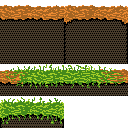
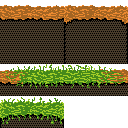
forest

Changed region(s): [[0.0, 0.9688, 0.5, 1.0]]

diff --git a/lib/game/levels/e1m1.js b/lib/game/levels/e1m1.js
@@ -1,6 +1,6 @@
 ig.module( 'game.levels.e1m1' )
-.requires( 'impact.image' )
+.requires( 'impact.image','game.entities.nextlevel' )
 .defines(function(){
-LevelE1m1=/*JSON[*/{"entities":[],"layer":[{"name":"BG","width":1,"height":1,"linkWithCollision":false,"visible":1,"tilesetName":"media/gfx/levels/sky.png","repeat":true,"preRender":true,"distance":"1","tilesize":32,"foreground":false,"data":[[15]]},{"name":"skybox","width":12,"height":14,"linkWithCollision":false,"visible":1,"tilesetName":"media/gfx/levels/sky.png","repeat":true,"preRender":true,"distance":"1.8","tilesize":32,"foreground":false,"data":[[1,1,1,1,1,1,1,1,1,1,1,1],[5,6,5,5,6,6,5,5,5,6,6,6],[0,0,0,0,0,0,0,0,0,0,0,0],[0,0,0,0,0,0,0,0,0,0,0,0],[0,0,0,0,0,0,0,0,0,0,0,0],[9,10,9,10,9,9,10,9,10,9,9,10],[13,13,13,13,13,13,13,13,13,13,13,13],[13,13,13,13,13,13,13,13,13,13,13,13],[13,13,13,13,13,13,13,13,13,13,13,13],[13,13,13,13,13,13,13,13,13,13,13,13],[1,1,1,1,1,1,1,1,1,1,1,1],[1,1,1,1,1,1,1,1,1,1,1,1],[1,1,1,1,1,1,1,1,1,1,1,1],[1,1,1,1,1,1,1,1,1,1,1,1]]},{"name":"forest_far_away","width":45,"height":10,"linkWithCollision":false,"visible":0,"tilesetName":"media/gfx/levels/forest.png","repeat":false,"preRender":true,"distance":"1.4","tilesize":32,"foreground":false,"data":[[0,0,0,0,0,0,0,0,0,0,0,0,0,0,0,0,0,0,0,0,0,0,0,0,0,0,0,0,0,0,0,0,0,0,0,0,0,0,0,0,0,0,0,0,0],[0,0,0,0,0,0,0,0,0,0,0,0,0,0,0,0,0,0,0,0,0,0,0,0,0,0,0,0,0,0,0,0,0,0,0,0,0,0,0,0,0,0,0,0,0],[0,0,0,0,0,0,0,0,0,0,0,0,0,0,0,0,0,0,0,0,0,0,0,11,0,11,0,5,0,0,0,0,0,0,0,0,0,0,0,0,0,0,0,0,0],[0,5,0,0,0,0,0,0,0,0,0,0,0,0,0,0,0,3,0,0,0,3,0,9,0,14,0,15,0,0,0,0,0,0,0,0,0,0,0,0,0,0,0,0,0],[0,9,0,0,5,0,10,0,11,0,0,3,0,0,0,2,0,7,4,0,0,7,0,16,0,9,0,9,0,0,11,0,0,0,0,0,0,0,0,0,0,0,0,0,0],[0,13,0,0,14,0,15,0,14,0,0,7,0,0,0,6,0,7,8,0,0,7,0,14,0,13,0,14,0,0,9,0,10,0,0,0,5,0,0,0,10,0,0,0,0],[0,9,0,0,9,0,16,0,15,0,0,7,0,0,0,6,0,7,8,0,0,7,0,13,0,9,0,13,0,0,15,0,9,0,0,0,15,0,0,0,15,0,0,0,0],[0,13,0,0,13,0,16,0,9,0,0,7,0,0,0,6,0,7,8,0,0,7,0,16,0,16,0,9,0,0,16,0,9,0,0,0,9,0,0,0,9,0,0,0,0],[0,16,0,0,16,0,0,0,0,0,0,7,0,0,0,6,0,7,8,0,0,7,0,16,0,16,0,16,0,0,16,0,16,0,0,0,16,0,0,0,16,0,0,0,0],[0,0,0,0,0,0,0,0,0,0,0,0,0,0,0,0,0,0,0,0,0,0,0,0,0,0,0,0,0,0,0,0,0,0,0,0,16,0,0,0,16,0,0,0,0]]},{"name":"forest_back","width":45,"height":10,"linkWithCollision":false,"visible":0,"tilesetName":"media/gfx/levels/forest.png","repeat":false,"preRender":true,"distance":"1.1","tilesize":32,"foreground":false,"data":[[0,0,0,0,0,0,0,0,0,0,0,0,0,0,0,0,0,0,0,0,0,0,0,0,0,0,0,0,0,0,0,0,0,0,0,0,0,0,0,0,0,0,0,0,0],[0,0,0,0,0,0,0,0,0,0,0,0,0,0,0,0,0,0,0,10,0,5,0,0,0,0,4,0,0,0,0,0,0,0,0,0,0,0,0,0,0,0,0,0,0],[0,0,0,0,0,0,0,0,0,0,0,0,0,0,11,0,0,0,0,9,0,16,0,10,0,3,8,0,0,0,0,0,0,0,0,0,0,0,0,0,0,0,0,0,0],[0,0,11,0,0,0,0,4,0,3,0,0,0,0,14,0,0,0,0,13,0,13,0,14,0,7,8,0,0,0,10,0,11,0,0,0,5,0,0,0,0,0,0,0,0],[0,0,9,0,0,0,0,8,0,7,0,0,0,0,15,0,0,0,0,14,0,16,0,13,0,7,8,0,0,0,15,0,14,0,0,0,9,2,10,0,0,0,0,0,0],[0,0,9,0,0,1,0,8,0,7,0,0,0,0,9,0,0,0,0,15,0,16,0,13,0,7,8,0,0,0,16,0,13,0,0,0,13,6,14,0,0,0,0,0,0],[0,0,13,0,0,8,0,8,0,7,0,0,0,0,13,0,0,0,0,16,0,16,0,0,0,7,8,0,0,0,16,0,16,0,0,0,14,6,15,0,0,0,0,0,0],[0,0,13,0,0,8,0,8,0,7,0,0,0,0,16,0,0,0,0,16,0,16,0,0,0,7,8,0,0,0,16,0,16,0,0,0,15,6,16,0,0,0,0,0,0],[0,0,0,0,0,0,0,0,0,0,0,0,0,0,16,0,0,0,0,0,0,0,0,0,0,7,8,0,0,0,0,0,0,0,0,0,16,6,16,0,0,0,0,0,0],[0,0,0,0,0,0,0,0,0,0,0,0,0,0,16,0,0,0,0,0,0,0,0,0,0,0,8,0,0,0,0,0,0,0,0,0,16,6,16,0,0,0,0,0,0]]},{"name":"MAIN_back","width":45,"height":10,"linkWithCollision":false,"visible":1,"tilesetName":"media/gfx/levels/forest.png","repeat":false,"preRender":true,"distance":"1","tilesize":32,"foreground":false,"data":[[0,0,0,0,0,0,0,0,0,0,0,0,0,0,0,0,0,0,0,0,0,0,0,0,0,0,0,0,0,0,0,0,0,0,0,0,0,0,0,0,0,0,0,0,0],[0,0,0,0,0,0,0,0,0,0,0,0,0,0,0,0,0,0,0,0,0,0,0,0,0,0,0,0,0,0,0,0,0,0,0,0,0,0,0,0,0,0,0,0,0],[0,0,0,0,0,0,0,0,0,0,0,0,0,0,0,0,0,0,0,0,0,0,0,0,0,0,0,0,0,0,0,0,0,0,0,0,0,0,0,0,0,0,0,0,0],[0,0,0,0,0,0,0,0,0,0,0,0,0,0,0,0,0,0,0,0,0,0,0,0,0,0,0,0,0,0,0,0,0,0,0,0,0,0,0,0,0,0,0,0,0],[0,0,0,0,0,0,0,0,0,0,0,0,0,0,0,0,0,0,0,0,0,0,0,0,0,0,0,0,0,0,0,0,0,0,0,0,0,0,0,0,0,0,0,0,0],[0,0,0,0,0,0,17,18,17,0,0,0,0,0,0,0,0,0,0,0,0,0,0,0,0,0,0,0,0,0,0,0,0,0,0,0,0,0,0,0,0,0,0,0,0],[0,0,0,0,0,0,21,21,21,0,0,0,0,0,0,0,0,0,0,0,0,0,0,0,0,0,0,0,0,0,0,0,0,0,0,0,0,0,0,0,0,0,0,0,0],[0,0,0,0,0,0,0,0,0,0,0,0,0,0,0,0,0,0,0,0,0,0,0,0,0,0,0,0,0,0,0,0,0,0,0,0,0,0,0,0,0,0,0,0,0],[0,0,0,0,0,0,0,0,0,0,0,0,0,0,0,0,0,0,0,0,0,0,0,0,0,0,0,0,0,0,0,0,0,0,0,0,0,0,0,0,0,0,0,0,0],[0,0,0,0,0,0,0,0,0,0,0,0,0,0,0,0,0,0,0,0,0,0,0,0,0,0,0,0,0,0,0,0,0,0,0,0,0,0,0,0,0,0,0,0,0]]},{"name":"MAIN","width":45,"height":10,"linkWithCollision":false,"visible":1,"tilesetName":"media/gfx/levels/ground.png","repeat":false,"preRender":true,"distance":"1","tilesize":32,"foreground":false,"data":[[0,0,0,0,0,0,0,0,0,0,0,0,0,0,0,0,0,0,0,0,0,0,0,0,0,0,0,0,0,0,0,0,0,0,0,0,0,0,0,0,0,0,0,0,0],[0,0,0,0,0,0,0,0,0,0,0,0,0,0,0,0,0,0,0,0,0,0,0,0,0,0,0,0,0,0,0,0,0,0,0,0,0,0,0,0,0,0,0,0,0],[0,0,0,0,0,0,0,0,0,0,0,0,0,0,0,0,0,0,0,0,0,0,0,0,0,0,0,0,0,0,0,0,0,0,0,0,0,0,0,0,0,0,0,0,0],[0,0,0,0,0,0,0,0,0,0,0,0,0,0,0,0,0,0,0,0,0,0,0,0,0,0,0,0,0,0,0,0,0,0,0,0,0,0,0,0,0,0,0,0,0],[0,0,0,0,0,0,0,0,0,0,0,0,0,0,0,0,0,0,0,13,10,11,10,10,11,11,10,11,14,0,0,0,0,0,0,0,0,0,0,0,0,0,0,0,0],[0,0,0,0,0,0,0,0,0,13,14,0,0,0,0,13,10,11,10,5,5,5,5,5,5,5,5,5,8,0,0,13,10,11,12,1,4,0,0,0,0,0,0,0,0],[3,2,2,9,10,11,11,10,11,7,8,14,0,13,10,5,5,5,5,5,5,5,5,5,5,5,5,5,8,0,0,7,5,5,5,5,6,1,1,1,1,1,1,1,4],[7,5,5,5,5,5,5,5,5,5,5,8,0,7,5,5,5,5,5,5,5,5,5,5,5,5,5,5,8,0,0,7,5,5,5,5,5,5,5,5,5,5,5,5,8],[7,5,5,5,5,5,5,5,5,5,5,8,0,7,5,5,5,5,5,5,5,5,5,5,5,5,5,5,8,0,0,7,5,5,5,5,5,5,5,5,5,5,5,5,8],[7,5,5,5,5,5,5,5,5,5,5,8,0,7,5,5,5,5,5,5,5,5,5,5,5,5,5,5,8,0,0,7,5,5,5,5,5,5,5,5,5,5,5,5,8]]},{"name":"forest_front","width":65,"height":10,"linkWithCollision":false,"visible":0,"tilesetName":"media/gfx/levels/forest.png","repeat":false,"preRender":true,"distance":"0.7","tilesize":32,"foreground":true,"data":[[0,0,0,0,0,0,0,0,0,0,0,0,0,0,0,0,0,0,0,0,0,0,0,0,0,0,0,0,0,0,0,0,0,0,0,0,0,0,0,0,0,0,0,0,0,0,0,0,0,0,0,0,0,0,0,0,0,0,0,0,0,0,0,0,0],[0,0,0,0,0,0,0,0,0,0,0,0,0,0,0,0,0,0,0,0,0,0,0,0,0,0,0,0,0,0,0,0,0,0,0,0,0,0,0,0,0,0,0,0,0,0,0,0,0,0,0,0,0,0,0,0,0,0,0,0,0,0,0,0,0],[0,0,0,0,0,0,0,0,0,0,0,0,0,0,0,0,0,0,10,0,0,0,0,0,0,0,0,0,0,0,0,11,0,0,0,0,0,0,0,0,0,0,0,0,0,0,0,0,0,0,0,0,0,0,0,0,0,0,0,0,0,0,0,0,0],[0,0,0,0,0,0,0,0,0,0,0,0,0,0,0,0,0,11,9,0,0,0,0,0,0,0,0,0,0,0,0,13,0,0,0,0,0,0,0,0,0,0,0,0,0,0,0,0,0,0,0,0,0,0,0,0,0,0,0,0,0,0,0,0,0],[3,0,0,0,0,10,0,0,0,5,0,0,0,0,0,0,0,13,13,0,0,0,0,0,11,0,0,0,0,0,0,13,0,0,0,0,0,0,0,0,0,0,0,0,0,11,0,0,0,3,0,0,0,0,0,0,0,0,10,0,0,0,0,0,0],[7,0,4,0,0,14,0,0,0,9,0,0,0,0,0,0,0,13,9,0,0,10,0,0,15,0,2,0,0,0,0,13,0,0,0,0,0,0,0,0,0,0,0,0,0,14,0,4,0,7,3,0,0,0,0,0,0,0,14,11,0,0,0,0,0],[7,0,8,0,0,15,0,0,0,14,0,0,0,0,0,0,0,14,15,0,0,13,0,0,9,0,6,0,0,0,0,9,0,0,0,0,0,0,0,0,0,0,0,0,0,13,0,8,0,7,7,0,0,0,0,0,0,0,15,9,0,0,0,0,0],[7,0,8,0,0,9,0,0,0,13,0,0,0,0,0,0,0,16,16,0,0,13,0,0,14,0,6,0,0,0,0,14,0,0,0,0,0,0,0,0,0,0,0,0,0,9,0,8,0,7,7,0,0,0,0,0,0,0,13,15,0,0,0,0,0],[7,0,8,0,0,13,0,0,0,15,0,0,0,0,0,0,0,16,16,0,0,15,0,0,16,0,6,0,0,0,0,16,0,0,0,0,0,0,0,0,0,0,0,0,0,16,0,8,0,7,7,0,0,0,0,0,0,0,16,14,0,0,0,0,0],[7,0,8,0,0,16,0,0,0,9,0,0,0,0,0,0,0,16,16,0,0,16,0,0,16,0,6,0,0,0,0,16,0,0,0,0,0,0,0,0,0,0,0,0,0,16,0,8,0,7,7,0,0,0,0,0,0,0,16,9,0,0,0,0,0]]},{"name":"collision","width":90,"height":16,"linkWithCollision":false,"visible":0,"tilesetName":"","repeat":false,"preRender":false,"distance":1,"tilesize":16,"foreground":true,"data":[[0,0,0,0,0,0,0,0,0,0,0,0,0,0,0,0,0,0,0,0,0,0,0,0,0,0,0,0,0,0,0,0,0,0,0,0,0,0,0,0,0,0,0,0,0,0,0,0,0,0,0,0,0,0,0,0,0,0,0,0,0,0,0,0,0,0,0,0,0,0,0,0,0,0,0,0,0,0,0,0,0,0,0,0,0,0,0,0,0,0],[0,0,0,0,0,0,0,0,0,0,0,0,0,0,0,0,0,0,0,0,0,0,0,0,0,0,0,0,0,0,0,0,0,0,0,0,0,0,0,0,0,0,0,0,0,0,0,0,0,0,0,0,0,0,0,0,0,0,0,0,0,0,0,0,0,0,0,0,0,0,0,0,0,0,0,0,0,0,0,0,0,0,0,0,0,0,0,0,0,0],[0,0,0,0,0,0,0,0,0,0,0,0,0,0,0,0,0,0,0,0,0,0,0,0,0,0,0,0,0,0,0,0,0,0,0,0,0,0,0,0,0,0,0,0,0,0,0,0,0,0,0,0,0,0,0,0,0,0,0,0,0,0,0,0,0,0,0,0,0,0,0,0,0,0,0,0,0,0,0,0,0,0,0,0,0,0,0,0,0,0],[0,0,0,0,0,0,0,0,0,0,0,0,0,0,0,0,0,0,0,0,0,0,0,0,0,0,0,0,0,0,0,0,0,0,0,0,0,0,0,0,0,0,0,0,0,0,0,0,0,0,0,0,0,0,0,0,0,0,0,0,0,0,0,0,0,0,0,0,0,0,0,0,0,0,0,0,0,0,0,0,0,0,0,0,0,0,0,0,0,0],[0,0,0,0,0,0,0,0,0,0,0,0,0,0,0,0,0,0,0,0,0,0,0,0,0,0,0,0,0,0,0,0,0,0,0,0,0,0,0,0,0,0,0,0,0,0,0,0,0,0,0,0,0,0,0,0,0,0,0,0,0,0,0,0,0,0,0,0,0,0,0,0,0,0,0,0,0,0,0,0,0,0,0,0,0,0,0,0,0,0],[0,0,0,0,0,0,0,0,0,0,0,0,0,0,0,0,0,0,0,0,0,0,0,0,0,0,0,0,0,0,0,0,0,0,0,0,0,0,0,0,0,0,0,0,0,0,0,0,0,0,0,0,0,0,0,0,0,0,0,0,0,0,0,0,0,0,0,0,0,0,0,0,0,0,0,0,0,0,0,0,0,0,0,0,0,0,0,0,0,0],[0,0,0,0,0,0,0,0,0,0,0,0,0,0,0,0,0,0,0,0,0,0,0,0,0,0,0,0,0,0,0,0,0,0,0,0,0,0,0,0,0,0,0,0,0,0,0,0,0,0,0,0,0,0,0,0,0,0,0,0,0,0,0,0,0,0,0,0,0,0,0,0,0,0,0,0,0,0,0,0,0,0,0,0,0,0,0,0,0,0],[0,0,0,0,0,0,0,0,0,0,0,0,0,0,0,0,0,0,0,0,0,0,0,0,0,0,0,0,0,0,0,0,0,0,0,0,0,0,0,0,0,0,0,0,0,0,0,0,0,0,0,0,0,0,0,0,0,0,0,0,0,0,0,0,0,0,0,0,0,0,0,0,0,0,0,0,0,0,0,0,0,0,0,0,0,0,0,0,0,0],[0,0,0,0,0,0,0,0,0,0,0,0,0,0,0,0,0,0,0,0,0,0,0,0,0,0,0,0,0,0,0,0,0,0,0,0,0,0,0,0,0,0,0,0,0,0,0,0,0,0,0,0,0,0,0,0,0,0,0,0,0,0,0,0,0,0,0,0,0,0,0,0,0,0,0,0,0,0,0,0,0,0,0,0,0,0,0,0,0,0],[0,0,0,0,0,0,0,0,0,0,0,0,0,0,0,0,0,0,0,0,0,0,0,0,0,0,0,0,0,0,0,0,0,0,0,0,0,0,1,1,1,1,1,1,1,1,1,1,1,1,1,1,1,1,1,1,1,1,0,0,0,0,0,0,0,0,0,0,0,0,0,0,0,0,0,0,0,0,0,0,0,0,0,0,0,0,0,0,0,0],[0,0,0,0,0,0,0,0,0,0,0,0,0,0,0,0,0,0,0,0,0,0,0,0,0,0,0,0,0,0,0,0,0,0,0,0,0,0,1,0,0,0,0,0,0,0,0,0,0,0,0,0,0,0,0,0,0,1,0,0,0,0,0,0,0,0,0,0,0,0,0,0,0,0,0,0,0,0,0,0,0,0,0,0,0,0,0,0,0,0],[0,0,0,0,0,0,0,0,0,0,0,0,0,0,0,0,0,0,1,1,1,1,0,0,0,0,0,0,0,0,1,1,1,1,1,1,1,1,1,0,0,0,0,0,0,0,0,0,0,0,0,0,0,0,0,0,0,1,0,0,0,0,1,1,1,1,1,1,1,1,1,1,1,1,0,0,0,0,0,0,0,0,0,0,0,0,0,0,0,0],[0,0,0,0,0,0,0,0,0,0,0,0,0,0,0,0,0,0,1,1,1,1,0,0,0,0,0,0,0,0,1,0,0,0,0,0,0,0,0,0,0,0,0,0,0,0,0,0,0,0,0,0,0,0,0,0,0,1,0,0,0,0,1,0,0,0,0,0,0,0,0,0,0,1,0,0,0,0,0,0,0,0,0,0,0,0,0,0,0,0],[1,1,1,1,1,1,1,1,1,1,1,1,1,1,1,1,1,1,1,0,0,1,1,1,0,0,1,1,1,1,1,0,0,0,0,0,0,0,0,0,0,0,0,0,0,0,0,0,0,0,0,0,0,0,0,0,0,1,0,0,0,0,1,0,0,0,0,0,0,0,0,0,0,1,1,1,1,1,1,1,1,1,1,1,1,1,1,1,1,1],[1,0,0,0,0,0,0,0,0,0,0,0,0,0,0,0,0,0,0,0,0,0,0,1,0,0,1,0,0,0,0,0,0,0,0,0,0,0,0,0,0,0,0,0,0,0,0,0,0,0,0,0,0,0,0,0,0,1,0,0,0,0,1,0,0,0,0,0,0,0,0,0,0,0,0,0,0,0,0,0,0,0,0,0,0,0,0,0,0,1],[1,0,0,0,0,0,0,0,0,0,0,0,0,0,0,0,0,0,0,0,0,0,0,1,0,0,1,0,0,0,0,0,0,0,0,0,0,0,0,0,0,0,0,0,0,0,0,0,0,0,0,0,0,0,0,0,0,1,0,0,0,0,1,0,0,0,0,0,0,0,0,0,0,0,0,0,0,0,0,0,0,0,0,0,0,0,0,0,0,1]]}]}/*]JSON*/;
-LevelE1m1Resources=[new ig.Image('media/gfx/levels/sky.png'), new ig.Image('media/gfx/levels/sky.png'), new ig.Image('media/gfx/levels/forest.png'), new ig.Image('media/gfx/levels/forest.png'), new ig.Image('media/gfx/levels/forest.png'), new ig.Image('media/gfx/levels/ground.png'), new ig.Image('media/gfx/levels/forest.png')];
+LevelE1m1=/*JSON[*/{"entities":[{"type":"EntityNextlevel","x":1347,"y":166}],"layer":[{"name":"BG","width":1,"height":1,"linkWithCollision":false,"visible":1,"tilesetName":"media/gfx/levels/sky.png","repeat":true,"preRender":true,"distance":"1","tilesize":32,"foreground":false,"data":[[15]]},{"name":"skybox","width":12,"height":14,"linkWithCollision":false,"visible":1,"tilesetName":"media/gfx/levels/sky.png","repeat":true,"preRender":true,"distance":"1.8","tilesize":32,"foreground":false,"data":[[1,1,1,1,1,1,1,1,1,1,1,1],[5,6,5,5,6,6,5,5,5,6,6,6],[0,0,0,0,0,0,0,0,0,0,0,0],[0,0,0,0,0,0,0,0,0,0,0,0],[0,0,0,0,0,0,0,0,0,0,0,0],[9,10,9,10,9,9,10,9,10,9,9,10],[13,13,13,13,13,13,13,13,13,13,13,13],[13,13,13,13,13,13,13,13,13,13,13,13],[13,13,13,13,13,13,13,13,13,13,13,13],[13,13,13,13,13,13,13,13,13,13,13,13],[1,1,1,1,1,1,1,1,1,1,1,1],[1,1,1,1,1,1,1,1,1,1,1,1],[1,1,1,1,1,1,1,1,1,1,1,1],[1,1,1,1,1,1,1,1,1,1,1,1]]},{"name":"forest_far_away","width":45,"height":10,"linkWithCollision":false,"visible":0,"tilesetName":"media/gfx/levels/forest.png","repeat":false,"preRender":true,"distance":"1.4","tilesize":32,"foreground":false,"data":[[0,0,0,0,0,0,0,0,0,0,0,0,0,0,0,0,0,0,0,0,0,0,0,0,0,0,0,0,0,0,0,0,0,0,0,0,0,0,0,0,0,0,0,0,0],[0,0,0,0,0,0,0,0,0,0,0,0,0,0,0,0,0,0,0,0,0,0,0,0,0,0,0,0,0,0,0,0,0,0,0,0,0,0,0,0,0,0,0,0,0],[0,0,0,0,0,0,0,0,0,0,0,0,0,0,0,0,0,0,0,0,0,0,0,11,0,11,0,5,0,0,0,0,0,0,0,0,0,0,0,0,0,0,0,0,0],[0,5,0,0,0,0,0,0,0,0,0,0,0,0,0,0,0,3,0,0,0,3,0,9,0,14,0,15,0,0,0,0,0,0,0,0,0,0,0,0,0,0,0,0,0],[0,9,0,0,5,0,10,0,11,0,0,3,0,0,0,2,0,7,4,0,0,7,0,16,0,9,0,9,0,0,11,0,0,0,0,0,0,0,0,0,0,0,0,0,0],[0,13,0,0,14,0,15,0,14,0,0,7,0,0,0,6,0,7,8,0,0,7,0,14,0,13,0,14,0,0,9,0,10,0,0,0,5,0,0,0,10,0,0,0,0],[0,9,0,0,9,0,16,0,15,0,0,7,0,0,0,6,0,7,8,0,0,7,0,13,0,9,0,13,0,0,15,0,9,0,0,0,15,0,0,0,15,0,0,0,0],[0,13,0,0,13,0,16,0,9,0,0,7,0,0,0,6,0,7,8,0,0,7,0,16,0,16,0,9,0,0,16,0,9,0,0,0,9,0,0,0,9,0,0,0,0],[0,16,0,0,16,0,0,0,0,0,0,7,0,0,0,6,0,7,8,0,0,7,0,16,0,16,0,16,0,0,16,0,16,0,0,0,16,0,0,0,16,0,0,0,0],[0,0,0,0,0,0,0,0,0,0,0,0,0,0,0,0,0,0,0,0,0,0,0,0,0,0,0,0,0,0,0,0,0,0,0,0,16,0,0,0,16,0,0,0,0]]},{"name":"forest_back","width":45,"height":10,"linkWithCollision":false,"visible":0,"tilesetName":"media/gfx/levels/forest.png","repeat":false,"preRender":true,"distance":"1.1","tilesize":32,"foreground":false,"data":[[0,0,0,0,0,0,0,0,0,0,0,0,0,0,0,0,0,0,0,0,0,0,0,0,0,0,0,0,0,0,0,0,0,0,0,0,0,0,0,0,0,0,0,0,0],[0,0,0,0,0,0,0,0,0,0,0,0,0,0,0,0,0,0,0,10,0,5,0,0,0,0,4,0,0,0,0,0,0,0,0,0,0,0,0,0,0,0,0,0,0],[0,0,0,0,0,0,0,0,0,0,0,0,0,0,11,0,0,0,0,9,0,16,0,10,0,3,8,0,0,0,0,0,0,0,0,0,0,0,0,0,0,0,0,0,0],[0,0,11,0,0,0,0,4,0,3,0,0,0,0,14,0,0,0,0,13,0,13,0,14,0,7,8,0,0,0,10,0,11,0,0,0,5,0,0,0,0,0,0,0,0],[0,0,9,0,0,0,0,8,0,7,0,0,0,0,15,0,0,0,0,14,0,16,0,13,0,7,8,0,0,0,15,0,14,0,0,0,9,2,10,0,0,0,0,0,0],[0,0,9,0,0,1,0,8,0,7,0,0,0,0,9,0,0,0,0,15,0,16,0,13,0,7,8,0,0,0,16,0,13,0,0,0,13,6,14,0,0,0,0,0,0],[0,0,13,0,0,8,0,8,0,7,0,0,0,0,13,0,0,0,0,16,0,16,0,0,0,7,8,0,0,0,16,0,16,0,0,0,14,6,15,0,0,0,0,0,0],[0,0,13,0,0,8,0,8,0,7,0,0,0,0,16,0,0,0,0,16,0,16,0,0,0,7,8,0,0,0,16,0,16,0,0,0,15,6,16,0,0,0,0,0,0],[0,0,0,0,0,0,0,0,0,0,0,0,0,0,16,0,0,0,0,0,0,0,0,0,0,7,8,0,0,0,0,0,0,0,0,0,16,6,16,0,0,0,0,0,0],[0,0,0,0,0,0,0,0,0,0,0,0,0,0,16,0,0,0,0,0,0,0,0,0,0,0,8,0,0,0,0,0,0,0,0,0,16,6,16,0,0,0,0,0,0]]},{"name":"MAIN_back","width":45,"height":10,"linkWithCollision":false,"visible":1,"tilesetName":"media/gfx/levels/forest.png","repeat":false,"preRender":true,"distance":"1","tilesize":32,"foreground":false,"data":[[0,0,0,0,0,0,0,0,0,0,0,0,0,0,0,0,0,0,0,0,0,0,0,0,0,0,0,0,0,0,0,0,0,0,0,0,0,0,0,0,0,0,0,0,0],[0,0,0,0,0,0,0,0,0,0,0,0,0,0,0,0,0,0,0,0,0,0,0,0,0,0,0,0,0,0,0,0,0,0,0,0,0,0,0,0,0,0,0,0,0],[0,0,0,0,0,0,0,0,0,0,0,0,0,0,0,0,0,0,0,0,0,0,0,0,0,0,0,0,0,0,0,0,0,0,0,0,0,0,0,0,0,0,0,0,0],[0,0,0,0,0,0,0,0,0,0,0,0,0,0,0,0,0,0,0,0,17,19,18,19,20,0,17,20,0,0,0,0,0,0,0,0,0,0,0,0,0,0,0,0,0],[0,0,0,0,0,0,0,0,0,17,20,0,0,0,0,0,17,18,19,0,21,22,23,22,24,0,21,24,0,0,0,0,0,0,0,0,0,0,0,0,0,0,0,0,0],[0,0,0,0,0,0,17,18,19,21,24,20,0,0,0,0,21,22,23,0,0,0,0,0,0,0,0,0,0,0,0,0,0,0,0,0,0,0,0,0,0,0,0,0,0],[0,0,0,0,0,0,21,22,22,0,0,24,0,0,0,0,0,0,0,0,0,0,0,0,0,0,0,0,0,0,0,0,0,0,0,0,0,0,0,0,0,0,0,0,0],[0,0,0,0,0,0,0,0,0,0,0,0,0,0,0,0,0,0,0,0,0,0,0,0,0,0,0,0,0,0,0,0,0,0,0,0,0,0,0,0,0,0,0,0,0],[0,0,0,0,0,0,0,0,0,0,0,0,0,0,0,0,0,0,0,0,0,0,0,0,0,0,0,0,0,0,0,0,0,0,0,0,0,0,0,0,0,0,0,0,0],[0,0,0,0,0,0,0,0,0,0,0,0,0,0,0,0,0,0,0,0,0,0,0,0,0,0,0,0,0,0,0,0,0,0,0,0,0,0,0,0,0,0,0,0,0]]},{"name":"MAIN","width":45,"height":10,"linkWithCollision":false,"visible":1,"tilesetName":"media/gfx/levels/ground.png","repeat":false,"preRender":true,"distance":"1","tilesize":32,"foreground":false,"data":[[0,0,0,0,0,0,0,0,0,0,0,0,0,0,0,0,0,0,0,0,0,0,0,0,0,0,0,0,0,0,0,0,0,0,0,0,0,0,0,0,0,0,0,0,0],[0,0,0,0,0,0,0,0,0,0,0,0,0,0,0,0,0,0,0,0,0,0,0,0,0,0,0,0,0,0,0,0,0,0,0,0,0,0,0,0,0,0,0,0,0],[0,0,0,0,0,0,0,0,0,0,0,0,0,0,0,0,0,0,0,0,0,0,0,0,0,0,0,0,0,0,0,0,0,0,0,0,0,0,0,0,0,0,0,0,0],[0,0,0,0,0,0,0,0,0,0,0,0,0,0,0,0,0,0,0,0,0,0,0,0,0,0,0,0,0,0,0,0,0,0,0,0,0,0,0,0,0,0,0,0,0],[0,0,0,0,0,0,0,0,0,0,0,0,0,0,0,0,0,0,0,13,10,11,10,10,11,11,10,11,14,0,0,0,0,0,0,0,0,0,0,0,0,0,0,0,0],[0,0,0,0,0,0,0,0,0,13,14,0,0,0,0,13,10,11,10,5,5,5,5,5,5,5,5,5,8,0,0,13,10,11,12,1,4,0,0,0,0,0,0,0,0],[3,2,2,9,10,11,11,10,11,7,8,14,0,13,10,5,5,5,5,5,5,5,5,5,5,5,5,5,8,0,0,7,5,5,5,5,6,1,1,1,1,1,1,1,4],[7,5,5,5,5,5,5,5,5,5,5,8,0,7,5,5,5,5,5,5,5,5,5,5,5,5,5,5,8,0,0,7,5,5,5,5,5,5,5,5,5,5,5,5,8],[7,5,5,5,5,5,5,5,5,5,5,8,0,7,5,5,5,5,5,5,5,5,5,5,5,5,5,5,8,0,0,7,5,5,5,5,5,5,5,5,5,5,5,5,8],[7,5,5,5,5,5,5,5,5,5,5,8,0,7,5,5,5,5,5,5,5,5,5,5,5,5,5,5,8,0,0,7,5,5,5,5,5,5,5,5,5,5,5,5,8]]},{"name":"MAIN_front_behind","width":45,"height":10,"linkWithCollision":false,"visible":true,"tilesetName":"media/gfx/levels/grass.png","repeat":false,"preRender":true,"distance":"1","tilesize":32,"foreground":false,"data":[[0,0,0,0,0,0,0,0,0,0,0,0,0,0,0,0,0,0,0,0,0,0,0,0,0,0,0,0,0,0,0,0,0,0,0,0,0,0,0,0,0,0,0,0,0],[0,0,0,0,0,0,0,0,0,0,0,0,0,0,0,0,0,0,0,0,0,0,0,0,0,0,0,0,0,0,0,0,0,0,0,0,0,0,0,0,0,0,0,0,0],[0,0,0,0,0,0,0,0,0,0,0,0,0,0,0,0,0,0,0,0,0,0,0,0,0,0,0,0,0,0,0,0,0,0,0,0,0,0,0,0,0,0,0,0,0],[0,0,0,0,0,0,0,0,0,0,0,0,0,0,0,0,0,0,0,0,0,0,0,0,0,0,0,0,0,0,0,0,0,0,0,0,0,0,0,0,0,0,0,0,0],[0,0,0,0,0,0,0,0,0,0,0,0,0,0,0,0,0,0,0,0,0,0,0,0,0,0,0,0,0,0,0,0,0,0,0,0,0,0,0,0,0,0,0,0,0],[0,0,0,0,0,0,0,0,0,0,0,0,0,0,0,0,0,0,0,0,0,0,0,0,0,0,0,0,0,0,0,0,0,0,0,10,0,0,0,0,0,0,0,0,0],[8,0,12,0,0,0,0,0,0,0,0,0,0,0,0,0,0,0,0,0,0,0,0,0,0,0,0,0,0,0,0,0,0,0,0,0,0,0,8,0,9,12,0,0,10],[0,0,0,0,0,0,0,0,0,0,0,0,0,0,0,0,0,0,0,0,0,0,0,0,0,0,0,0,0,0,0,0,0,0,0,0,0,0,0,0,0,0,0,0,0],[0,0,0,0,0,0,0,0,0,0,0,0,0,0,0,0,0,0,0,0,0,0,0,0,0,0,0,0,0,0,0,0,0,0,0,0,0,0,0,0,0,0,0,0,0],[0,0,0,0,0,0,0,0,0,0,0,0,0,0,0,0,0,0,0,0,0,0,0,0,0,0,0,0,0,0,0,0,0,0,0,0,0,0,0,0,0,0,0,0,0]]},{"name":"MAIN_front_above","width":45,"height":10,"linkWithCollision":false,"visible":true,"tilesetName":"media/gfx/levels/grass.png","repeat":false,"preRender":true,"distance":"1","tilesize":32,"foreground":true,"data":[[0,0,0,0,0,0,0,0,0,0,0,0,0,0,0,0,0,0,0,0,0,0,0,0,0,0,0,0,0,0,0,0,0,0,0,0,0,0,0,0,0,0,0,0,0],[0,0,0,0,0,0,0,0,0,0,0,0,0,0,0,0,0,0,0,0,0,0,0,0,0,0,0,0,0,0,0,0,0,0,0,0,0,0,0,0,0,0,0,0,0],[0,0,0,0,0,0,0,0,0,0,0,0,0,0,0,0,0,0,0,0,0,0,0,0,0,0,0,0,0,0,0,0,0,0,0,0,0,0,0,0,0,0,0,0,0],[0,0,0,0,0,0,0,0,0,0,0,0,0,0,0,0,0,0,0,0,0,0,0,0,0,0,0,0,0,0,0,0,0,0,0,0,0,0,0,0,0,0,0,0,0],[0,0,0,0,0,0,0,0,0,0,0,0,0,0,0,0,0,0,0,5,6,7,3,0,1,8,0,4,0,0,0,0,0,0,0,0,0,0,0,0,0,0,0,0,0],[0,0,0,0,0,0,0,0,0,0,2,0,0,0,0,0,5,6,6,0,0,0,0,0,0,0,0,0,0,0,0,0,2,0,0,0,0,0,0,0,0,0,0,0,0],[0,0,0,0,0,5,6,6,7,0,0,0,0,1,0,0,0,0,0,0,0,0,0,0,0,0,0,0,0,0,0,0,0,0,0,0,0,0,0,0,0,0,0,0,0],[0,0,0,0,0,0,0,0,0,0,0,0,0,0,0,0,0,0,0,0,0,0,0,0,0,0,0,0,0,0,0,0,0,0,0,0,0,0,0,0,0,0,0,0,0],[0,0,0,0,0,0,0,0,0,0,0,0,0,0,0,0,0,0,0,0,0,0,0,0,0,0,0,0,0,0,0,0,0,0,0,0,0,0,0,0,0,0,0,0,0],[0,0,0,0,0,0,0,0,0,0,0,0,0,0,0,0,0,0,0,0,0,0,0,0,0,0,0,0,0,0,0,0,0,0,0,0,0,0,0,0,0,0,0,0,0]]},{"name":"forest_front","width":65,"height":10,"linkWithCollision":false,"visible":0,"tilesetName":"media/gfx/levels/forest.png","repeat":false,"preRender":true,"distance":"0.7","tilesize":32,"foreground":true,"data":[[0,0,0,0,0,0,0,0,0,0,0,0,0,0,0,0,0,0,0,0,0,0,0,0,0,0,0,0,0,0,0,0,0,0,0,0,0,0,0,0,0,0,0,0,0,0,0,0,0,0,0,0,0,0,0,0,0,0,0,0,0,0,0,0,0],[0,0,0,0,0,0,0,0,0,0,0,0,0,0,0,0,0,0,0,0,0,0,0,0,0,0,0,0,0,0,0,0,0,0,0,0,0,0,0,0,0,0,0,0,0,0,0,0,0,0,0,0,0,0,0,0,0,0,0,0,0,0,0,0,0],[0,0,0,0,0,0,0,0,0,0,0,0,0,0,0,0,0,0,10,0,0,0,0,0,0,0,0,0,0,0,0,11,0,0,0,0,0,0,0,0,0,0,0,0,0,0,0,0,0,0,0,0,0,0,0,0,0,0,0,0,0,0,0,0,0],[0,0,0,0,0,0,0,0,0,0,0,0,0,0,0,0,0,11,9,0,0,0,0,0,0,0,0,0,0,0,0,13,0,0,0,0,0,0,0,0,0,0,0,0,0,0,0,0,0,0,0,0,0,0,0,0,0,0,0,0,0,0,0,0,0],[3,0,0,0,0,10,0,0,0,5,0,0,0,0,0,0,0,13,13,0,0,0,0,0,11,0,0,0,0,0,0,13,0,0,0,0,0,0,0,0,0,0,0,0,0,11,0,0,0,3,0,0,0,0,0,0,0,0,10,0,0,0,0,0,0],[7,0,4,0,0,14,0,0,0,9,0,0,0,0,0,0,0,13,9,0,0,10,0,0,15,0,2,0,0,0,0,13,0,0,0,0,0,0,0,0,0,0,0,0,0,14,0,4,0,7,3,0,0,0,0,0,0,0,14,11,0,0,0,0,0],[7,0,8,0,0,15,0,0,0,14,0,0,0,0,0,0,0,14,15,0,0,13,0,0,9,0,6,0,0,0,0,9,0,0,0,0,0,0,0,0,0,0,0,0,0,13,0,8,0,7,7,0,0,0,0,0,0,0,15,9,0,0,0,0,0],[7,0,8,0,0,9,0,0,0,13,0,0,0,0,0,0,0,16,16,0,0,13,0,0,14,0,6,0,0,0,0,14,0,0,0,0,0,0,0,0,0,0,0,0,0,9,0,8,0,7,7,0,0,0,0,0,0,0,13,15,0,0,0,0,0],[7,0,8,0,0,13,0,0,0,15,0,0,0,0,0,0,0,16,16,0,0,15,0,0,16,0,6,0,0,0,0,16,0,0,0,0,0,0,0,0,0,0,0,0,0,16,0,8,0,7,7,0,0,0,0,0,0,0,16,14,0,0,0,0,0],[7,0,8,0,0,16,0,0,0,9,0,0,0,0,0,0,0,16,16,0,0,16,0,0,16,0,6,0,0,0,0,16,0,0,0,0,0,0,0,0,0,0,0,0,0,16,0,8,0,7,7,0,0,0,0,0,0,0,16,9,0,0,0,0,0]]},{"name":"collision","width":90,"height":16,"linkWithCollision":false,"visible":0,"tilesetName":"","repeat":false,"preRender":false,"distance":1,"tilesize":16,"foreground":true,"data":[[0,0,0,0,0,0,0,0,0,0,0,0,0,0,0,0,0,0,0,0,0,0,0,0,0,0,0,0,0,0,0,0,0,0,0,0,0,0,0,0,0,0,0,0,0,0,0,0,0,0,0,0,0,0,0,0,0,0,0,0,0,0,0,0,0,0,0,0,0,0,0,0,0,0,0,0,0,0,0,0,0,0,0,0,0,0,0,0,0,0],[0,0,0,0,0,0,0,0,0,0,0,0,0,0,0,0,0,0,0,0,0,0,0,0,0,0,0,0,0,0,0,0,0,0,0,0,0,0,0,0,0,0,0,0,0,0,0,0,0,0,0,0,0,0,0,0,0,0,0,0,0,0,0,0,0,0,0,0,0,0,0,0,0,0,0,0,0,0,0,0,0,0,0,0,0,0,0,0,0,0],[0,0,0,0,0,0,0,0,0,0,0,0,0,0,0,0,0,0,0,0,0,0,0,0,0,0,0,0,0,0,0,0,0,0,0,0,0,0,0,0,0,0,0,0,0,0,0,0,0,0,0,0,0,0,0,0,0,0,0,0,0,0,0,0,0,0,0,0,0,0,0,0,0,0,0,0,0,0,0,0,0,0,0,0,0,0,0,0,0,0],[0,0,0,0,0,0,0,0,0,0,0,0,0,0,0,0,0,0,0,0,0,0,0,0,0,0,0,0,0,0,0,0,0,0,0,0,0,0,0,0,0,0,0,0,0,0,0,0,0,0,0,0,0,0,0,0,0,0,0,0,0,0,0,0,0,0,0,0,0,0,0,0,0,0,0,0,0,0,0,0,0,0,0,0,0,0,0,0,0,0],[0,0,0,0,0,0,0,0,0,0,0,0,0,0,0,0,0,0,0,0,0,0,0,0,0,0,0,0,0,0,0,0,0,0,0,0,0,0,0,0,0,0,0,0,0,0,0,0,0,0,0,0,0,0,0,0,0,0,0,0,0,0,0,0,0,0,0,0,0,0,0,0,0,0,0,0,0,0,0,0,0,0,0,0,0,0,0,0,0,0],[0,0,0,0,0,0,0,0,0,0,0,0,0,0,0,0,0,0,0,0,0,0,0,0,0,0,0,0,0,0,0,0,0,0,0,0,0,0,0,0,0,0,0,0,0,0,0,0,0,0,0,0,0,0,0,0,0,0,0,0,0,0,0,0,0,0,0,0,0,0,0,0,0,0,0,0,0,0,0,0,0,0,0,0,0,0,0,0,0,0],[0,0,0,0,0,0,0,0,0,0,0,0,0,0,0,0,0,0,0,0,0,0,0,0,0,0,0,0,0,0,0,0,0,0,0,0,0,0,0,0,0,0,0,0,0,0,0,0,0,0,0,0,0,0,0,0,0,0,0,0,0,0,0,0,0,0,0,0,0,0,0,0,0,0,0,0,0,0,0,0,0,0,0,0,0,0,0,0,0,0],[0,0,0,0,0,0,0,0,0,0,0,0,0,0,0,0,0,0,0,0,0,0,0,0,0,0,0,0,0,0,0,0,0,0,0,0,0,0,0,0,0,0,0,0,0,0,0,0,0,0,0,0,0,0,0,0,0,0,0,0,0,0,0,0,0,0,0,0,0,0,0,0,0,0,0,0,0,0,0,0,0,0,0,0,0,0,0,0,0,0],[0,0,0,0,0,0,0,0,0,0,0,0,0,0,0,0,0,0,0,0,0,0,0,0,0,0,0,0,0,0,0,0,0,0,0,0,0,0,0,0,0,0,0,0,0,0,0,0,0,0,0,0,0,0,0,0,0,0,0,0,0,0,0,0,0,0,0,0,0,0,0,0,0,0,0,0,0,0,0,0,0,0,0,0,0,0,0,0,0,0],[0,0,0,0,0,0,0,0,0,0,0,0,0,0,0,0,0,0,0,0,0,0,0,0,0,0,0,0,0,0,0,0,0,0,0,0,0,0,1,1,1,1,1,1,1,1,1,1,1,1,1,1,1,1,1,1,1,1,0,0,0,0,0,0,0,0,0,0,0,0,0,0,0,0,0,0,0,0,0,0,0,0,0,0,0,0,0,0,0,0],[0,0,0,0,0,0,0,0,0,0,0,0,0,0,0,0,0,0,0,0,0,0,0,0,0,0,0,0,0,0,0,0,0,0,0,0,0,0,1,0,0,0,0,0,0,0,0,0,0,0,0,0,0,0,0,0,0,1,0,0,0,0,0,0,0,0,0,0,0,0,0,0,0,0,0,0,0,0,0,0,0,0,0,0,0,0,0,0,0,0],[0,0,0,0,0,0,0,0,0,0,0,0,0,0,0,0,0,0,1,1,1,1,0,0,0,0,0,0,0,0,1,1,1,1,1,1,1,1,1,0,0,0,0,0,0,0,0,0,0,0,0,0,0,0,0,0,0,1,0,0,0,0,1,1,1,1,1,1,1,1,1,1,1,1,0,0,0,0,0,0,0,0,0,0,0,0,0,0,0,0],[0,0,0,0,0,0,0,0,0,0,0,0,0,0,0,0,0,0,1,1,1,1,0,0,0,0,0,0,0,0,1,0,0,0,0,0,0,0,0,0,0,0,0,0,0,0,0,0,0,0,0,0,0,0,0,0,0,1,0,0,0,0,1,0,0,0,0,0,0,0,0,0,0,1,0,0,0,0,0,0,0,0,0,0,0,0,0,0,0,0],[1,1,1,1,1,1,1,1,1,1,1,1,1,1,1,1,1,1,1,0,0,1,1,1,0,0,1,1,1,1,1,0,0,0,0,0,0,0,0,0,0,0,0,0,0,0,0,0,0,0,0,0,0,0,0,0,0,1,0,0,0,0,1,0,0,0,0,0,0,0,0,0,0,1,1,1,1,1,1,1,1,1,1,1,1,1,1,1,1,1],[1,0,0,0,0,0,0,0,0,0,0,0,0,0,0,0,0,0,0,0,0,0,0,1,0,0,1,0,0,0,0,0,0,0,0,0,0,0,0,0,0,0,0,0,0,0,0,0,0,0,0,0,0,0,0,0,0,1,0,0,0,0,1,0,0,0,0,0,0,0,0,0,0,0,0,0,0,0,0,0,0,0,0,0,0,0,0,0,0,1],[1,0,0,0,0,0,0,0,0,0,0,0,0,0,0,0,0,0,0,0,0,0,0,1,0,0,1,0,0,0,0,0,0,0,0,0,0,0,0,0,0,0,0,0,0,0,0,0,0,0,0,0,0,0,0,0,0,1,0,0,0,0,1,0,0,0,0,0,0,0,0,0,0,0,0,0,0,0,0,0,0,0,0,0,0,0,0,0,0,1]]}]}/*]JSON*/;
+LevelE1m1Resources=[new ig.Image('media/gfx/levels/sky.png'), new ig.Image('media/gfx/levels/sky.png'), new ig.Image('media/gfx/levels/forest.png'), new ig.Image('media/gfx/levels/forest.png'), new ig.Image('media/gfx/levels/forest.png'), new ig.Image('media/gfx/levels/ground.png'), new ig.Image('media/gfx/levels/grass.png'), new ig.Image('media/gfx/levels/grass.png'), new ig.Image('media/gfx/levels/forest.png')];
 });

diff --git a/lib/plugins/camera.js b/lib/plugins/camera.js
@@ -60,13 +60,17 @@ ig.Camera = ig.Class.extend({
 
     center: function() {
         //move to main.js
-        var maxX = ig.game.collisionMap.width * ig.game.collisionMap.tilesize - ig.system.width;
+        var maxX = ig.game.collisionMap.width * ig.game.collisionMap.tilesize;
         var centerX = maxX*0.5;
         this.xS = centerX;
         ig.game.screen.x = centerX;
         ig.game.screen.y = 0;
     },
 
+    reset: function(){
+        ig.game.screen.x = 0;
+        ig.game.screen.y = 0;
+    },
 
     update: function() {
         var shakeX = 0,

diff --git a/lib/plugins/gameflow.js b/lib/plugins/gameflow.js
@@ -130,6 +130,8 @@ ig.GameFlow = ig.Class.extend({
             ig.game.director.jumpTo(LevelE1m1);
         }
 
+        ig.game.camera.reset();
+
 		this.spawnPlayer({
         	hero: params.hero,
         	x: (ig.system.width*0.5) + ig.game.screen.x,
